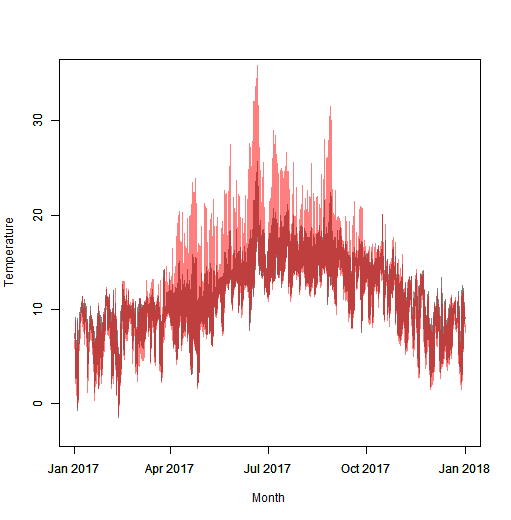
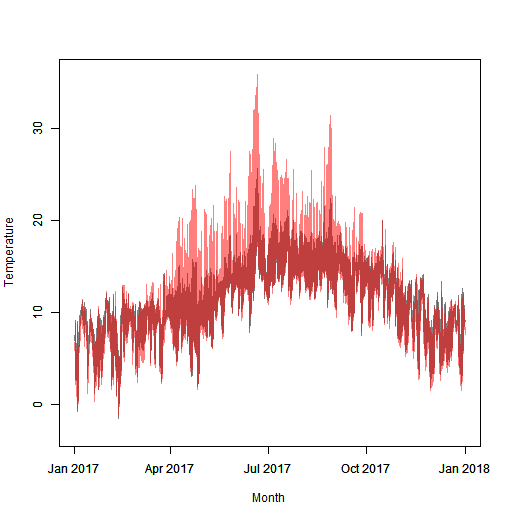
Tutorial: wording of the ectotherm and grassland text; plot7 axis; vignettes rebuilt

diff --git a/inst/doc/new_model_tutorial.html b/inst/doc/new_model_tutorial.html
@@ -809,7 +809,7 @@ and grassland.</p>
 <span id="cb12-2"><a href="#cb12-2" tabindex="-1"></a>n <span class="ot">&lt;-</span> <span class="dv">20</span> <span class="co"># Number of layers</span></span>
 <span id="cb12-3"><a href="#cb12-3" tabindex="-1"></a><span class="co"># Create vegetation parameters for C3 grassland</span></span>
 <span id="cb12-4"><a href="#cb12-4" tabindex="-1"></a>vegp <span class="ot">&lt;-</span>  <span class="fu">createvegp</span>(<span class="at">vegtype =</span> <span class="st">&quot;C3&quot;</span>) <span class="co"># C3 grassland</span></span>
-<span id="cb12-5"><a href="#cb12-5" tabindex="-1"></a>vegp<span class="sc">$</span>h <span class="ot">&lt;-</span> <span class="dv">1</span> <span class="co"># adjust vegetation height to 10 cm</span></span>
+<span id="cb12-5"><a href="#cb12-5" tabindex="-1"></a>vegp<span class="sc">$</span>h <span class="ot">&lt;-</span> <span class="dv">1</span> <span class="co"># adjust vegetation height to 1 m</span></span>
 <span id="cb12-6"><a href="#cb12-6" tabindex="-1"></a>vegp<span class="sc">$</span>pai <span class="ot">&lt;-</span> <span class="fl">0.5</span> <span class="co"># reduce pai to 0.5</span></span>
 <span id="cb12-7"><a href="#cb12-7" tabindex="-1"></a>paii <span class="ot">&lt;-</span> <span class="fu">PAIgrass</span>(vegp<span class="sc">$</span>h, n, vegp<span class="sc">$</span>pai) <span class="co"># generate foliage profile</span></span>
 <span id="cb12-8"><a href="#cb12-8" tabindex="-1"></a>Lfrac <span class="ot">&lt;-</span> <span class="fu">seq</span>(<span class="fl">0.9</span>, <span class="dv">1</span>, <span class="at">length.out =</span> <span class="fu">length</span>(paii))</span>
@@ -894,11 +894,11 @@ soil surface (e.g. small clods or ridges).</p>
 <span id="cb16-6"><a href="#cb16-6" tabindex="-1"></a><span class="co"># plot temperature time series</span></span>
 <span id="cb16-7"><a href="#cb16-7" tabindex="-1"></a>tme <span class="ot">&lt;-</span> <span class="fu">as.POSIXct</span>(climdata<span class="sc">$</span>obs_time, <span class="at">tz =</span> <span class="st">&quot;UTC&quot;</span>)</span>
 <span id="cb16-8"><a href="#cb16-8" tabindex="-1"></a><span class="fu">plot</span>(climdata<span class="sc">$</span>temp <span class="sc">~</span> tme, <span class="at">type =</span> <span class="st">&quot;l&quot;</span>, <span class="at">col =</span> <span class="fu">rgb</span>(<span class="dv">0</span>, <span class="dv">0</span>, <span class="dv">0</span>, <span class="fl">0.5</span>),</span>
-<span id="cb16-9"><a href="#cb16-9" tabindex="-1"></a>     <span class="at">xlab =</span> <span class="st">&quot;Month&quot;</span>, <span class="at">ylab =</span> <span class="st">&quot;Temperature&quot;</span>, <span class="at">ylim =</span> <span class="fu">c</span>(<span class="sc">-</span><span class="dv">3</span>, <span class="dv">35</span>))</span>
+<span id="cb16-9"><a href="#cb16-9" tabindex="-1"></a>     <span class="at">xlab =</span> <span class="st">&quot;Month&quot;</span>, <span class="at">ylab =</span> <span class="st">&quot;Temperature&quot;</span>, <span class="at">ylim =</span> <span class="fu">c</span>(<span class="sc">-</span><span class="dv">3</span>, <span class="dv">36</span>))</span>
 <span id="cb16-10"><a href="#cb16-10" tabindex="-1"></a><span class="fu">par</span>(<span class="at">new =</span> <span class="cn">TRUE</span>)</span>
 <span id="cb16-11"><a href="#cb16-11" tabindex="-1"></a><span class="fu">plot</span>(mout<span class="sc">$</span>tair <span class="sc">~</span> tme, <span class="at">type =</span> <span class="st">&quot;l&quot;</span>, <span class="at">col =</span> <span class="fu">rgb</span>(<span class="dv">1</span>, <span class="dv">0</span>, <span class="dv">0</span>, <span class="fl">0.5</span>),</span>
-<span id="cb16-12"><a href="#cb16-12" tabindex="-1"></a>     <span class="at">xlab =</span> <span class="st">&quot;&quot;</span>, <span class="at">ylab =</span> <span class="st">&quot;&quot;</span>, <span class="at">ylim =</span> <span class="fu">c</span>(<span class="sc">-</span><span class="dv">3</span>, <span class="dv">35</span>))</span></code></pre></div>
[1 lines of base64/hex data omitted]
+<span id="cb16-12"><a href="#cb16-12" tabindex="-1"></a>     <span class="at">xlab =</span> <span class="st">&quot;&quot;</span>, <span class="at">ylab =</span> <span class="st">&quot;&quot;</span>, <span class="at">ylim =</span> <span class="fu">c</span>(<span class="sc">-</span><span class="dv">3</span>, <span class="dv">36</span>))</span></code></pre></div>
[1 lines of base64/hex data omitted]
 derive the volumetric soil water fraction near the surface. Here we use
 the `<code>InitailizeWater</code>, which sets up a sensible initial soil
 water profile.</p>
@@ -1091,7 +1091,8 @@ running this function:</p>
 <span id="cb20-24"><a href="#cb20-24" tabindex="-1"></a><span class="fu">abline</span>(<span class="at">h =</span> <span class="dv">0</span>, <span class="at">lty =</span> <span class="dv">2</span>)</span>
 <span id="cb20-25"><a href="#cb20-25" tabindex="-1"></a><span class="fu">abline</span>(<span class="at">h =</span> vegp<span class="sc">$</span>h, <span class="at">lty =</span> <span class="dv">2</span>)</span></code></pre></div>
[1 lines of base64/hex data omitted]
-<p>The small step at the top of the canopy is the result of the
+<p>The step at the ground is where the ectotherm passes from the soil to
+the air. The slight kink at the top of the canopy is the result of the
 ectotherm no longer being in direct contact with a physical surface.
 Obviously for some ectotherms, being suspended in the air is rather
 hypothetical!</p>
@@ -1129,12 +1130,13 @@ used when running this function:</p>
 <span id="cb22-4"><a href="#cb22-4" tabindex="-1"></a><span class="co"># Run ectotherm model with default maxiter and tolerence</span></span>
 <span id="cb22-5"><a href="#cb22-5" tabindex="-1"></a>ecto_out <span class="ot">&lt;-</span> <span class="fu">full_ecto</span>(mout, climdata_adj, vegp, soilc, ectop, </span>
 <span id="cb22-6"><a href="#cb22-6" tabindex="-1"></a>                      <span class="at">lat =</span> <span class="fl">49.96807</span>, <span class="at">long =</span> <span class="sc">-</span><span class="fl">5.215668</span>)</span></code></pre></div>
-<p>The function returns a list of two matrices: (1) <code>Tbodya</code>
-- the body temperature for every hour and height above ground, (2)
-<code>Tbodyb</code> - the body temperature for every hour and height
-below ground, assumed to be the same as the ground temperature. We can
-then produce a plot, which as we did for microclimate variables (see
-above)</p>
+<p>The function returns a list of three matrices: (1)
+<code>Tbodya</code> - the body temperature for every hour and height
+within the canopy, (2) <code>Tbodyb</code> - the body temperature for
+every hour and height below ground, assumed to be the same as the ground
+temperature, (3) <code>Tbody_above</code> - the body temperature for
+every hour and height above the canopy. We can then produce a plot,
+which as we did for microclimate variables (see above)</p>
 <div class="sourceCode" id="cb23"><pre class="sourceCode r"><code class="sourceCode r"><span id="cb23-1"><a href="#cb23-1" tabindex="-1"></a><span class="fu">require</span>(terra)</span>
 <span id="cb23-2"><a href="#cb23-2" tabindex="-1"></a><span class="co"># Heights of every column, from the base of the soil to the height of the weather data</span></span>
 <span id="cb23-3"><a href="#cb23-3" tabindex="-1"></a>zall <span class="ot">&lt;-</span> <span class="fu">c</span>(<span class="sc">-</span><span class="fu">rev</span>(mout<span class="sc">$</span>zsoil), mout<span class="sc">$</span>z, mout<span class="sc">$</span>za)</span>
